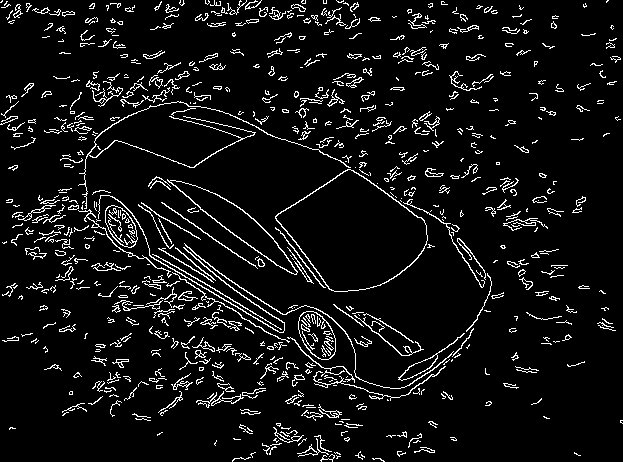
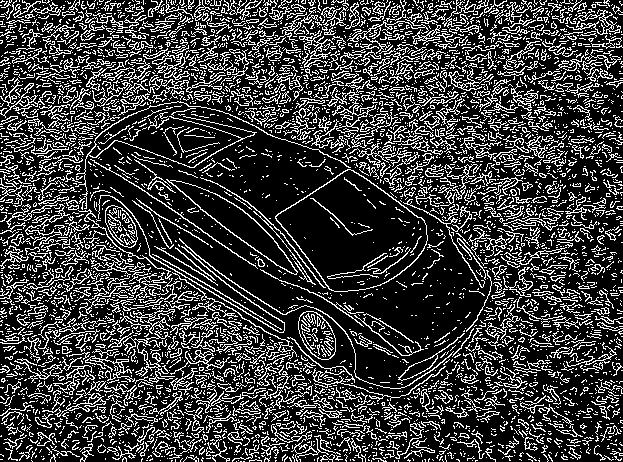
riktig treshold

diff --git a/assignment_3/assignment_3.py b/assignment_3/assignment_3.py
@@ -46,7 +46,7 @@ def resize(image, scale_factor:int, up_or_down:str):
    print("test")
 
 #sobel_edge_detection(img)
-#canny_edge_detection(img, 100, 200)
+canny_edge_detection(img, 50, 50)
 #template_match(image, template)
-resize(img, 2, "up")
-resize(img, 2, "down")
+#resize(img, 2, "up")
+#resize(img, 2, "down")
